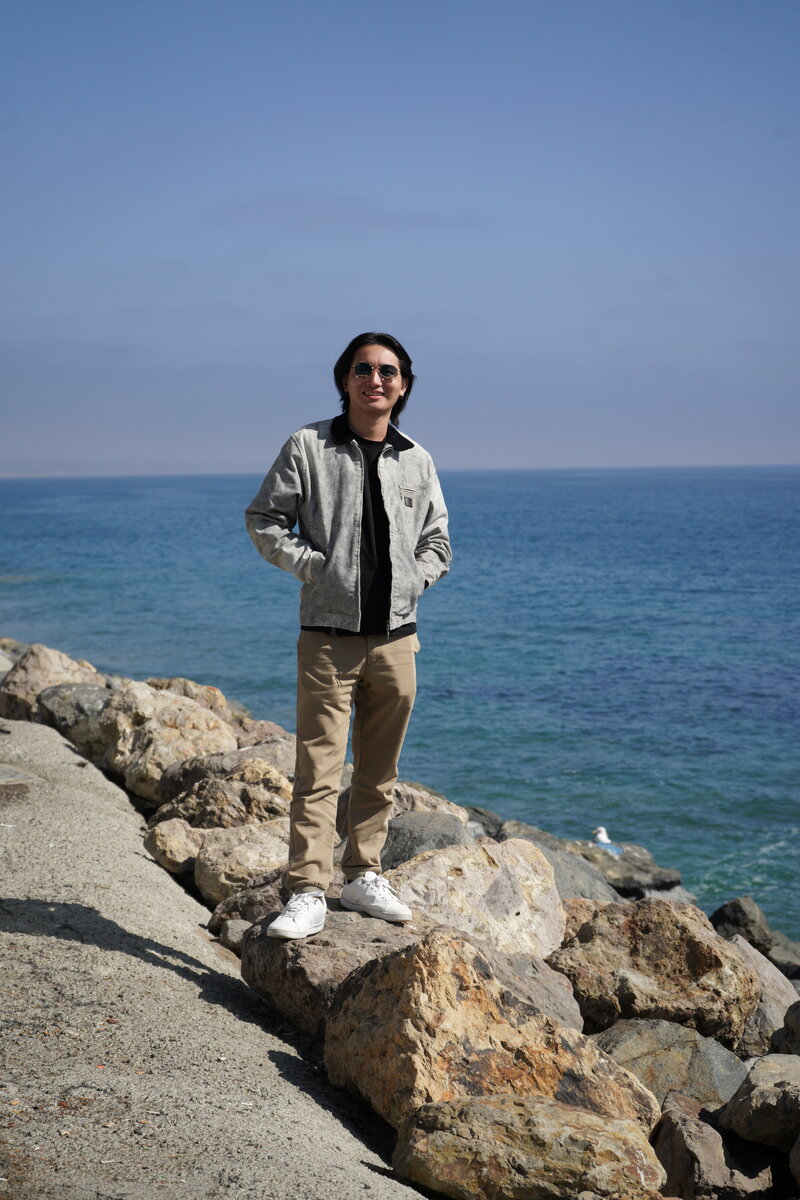
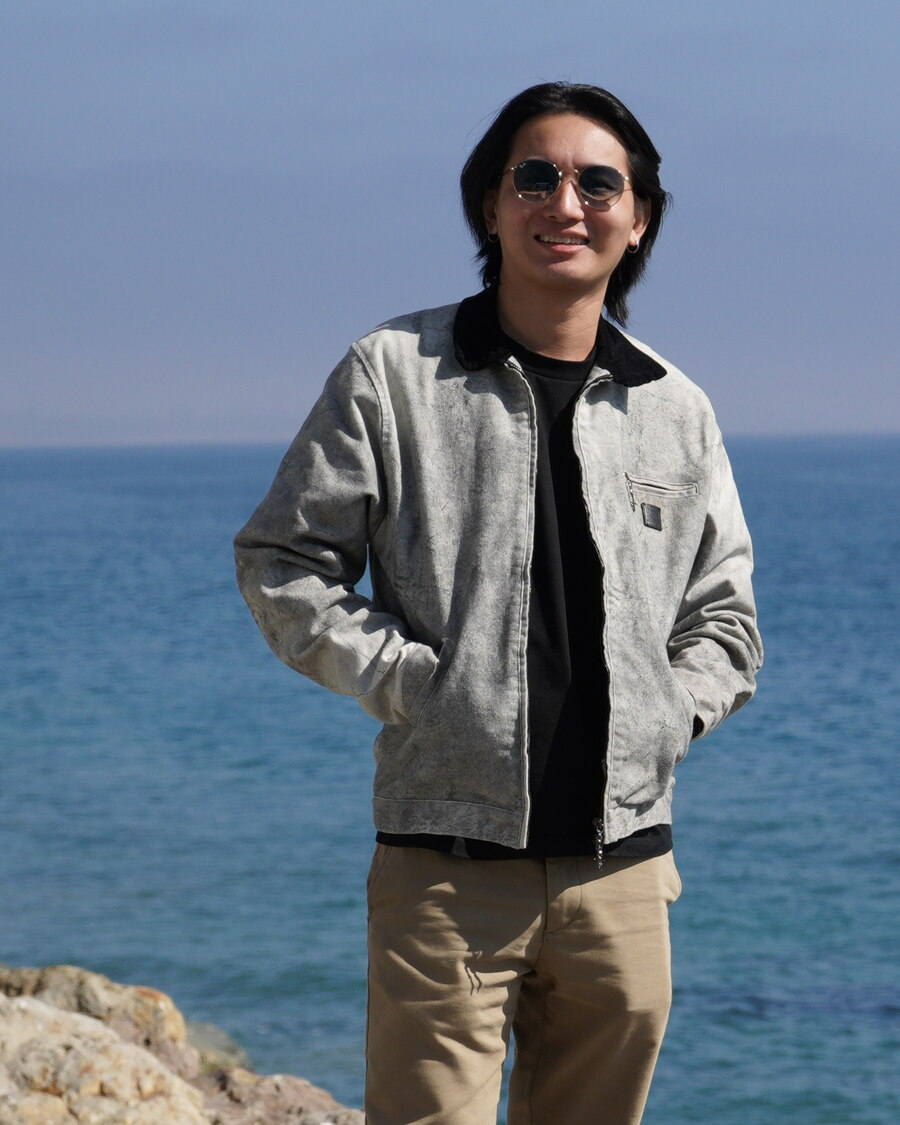
Tighter waist-up photo crop, widen hero to 70/30 text/photo to close height mismatch between photo and 4-paragraph bio

diff --git a/src/styles/global.css b/src/styles/global.css
@@ -231,7 +231,7 @@ article .prose time {
 
 .about-hero {
   display: grid;
-  grid-template-columns: 3fr 1fr;
+  grid-template-columns: 7fr 3fr;
   gap: clamp(2rem, 5vw, 4rem);
   align-items: start;
   margin-bottom: 4rem;
